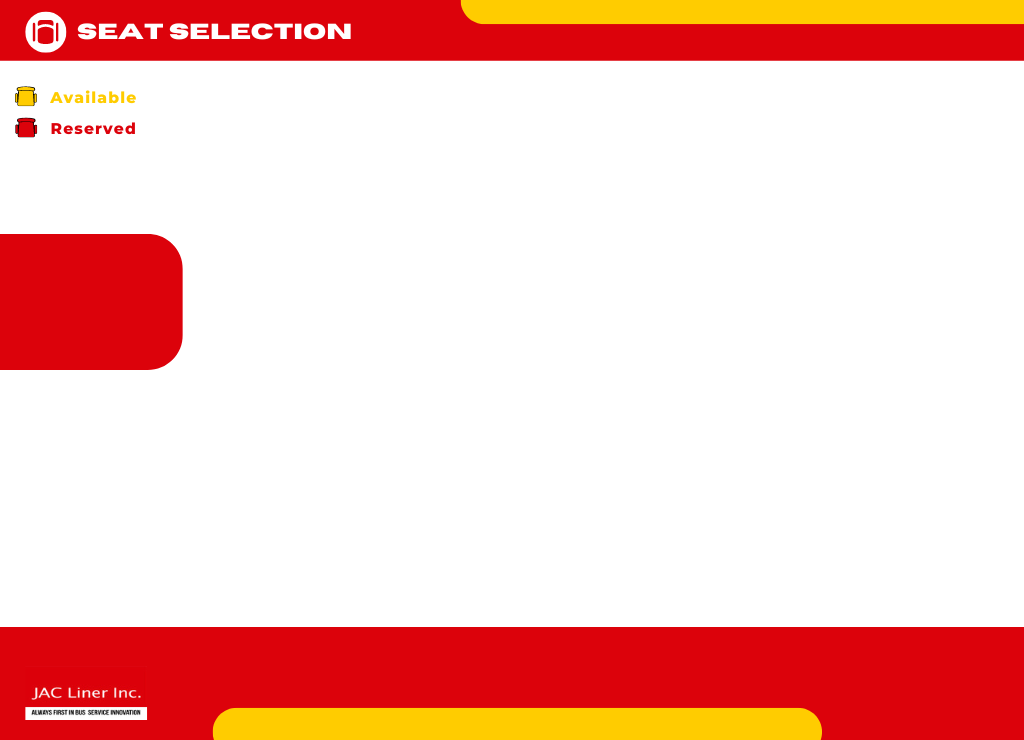
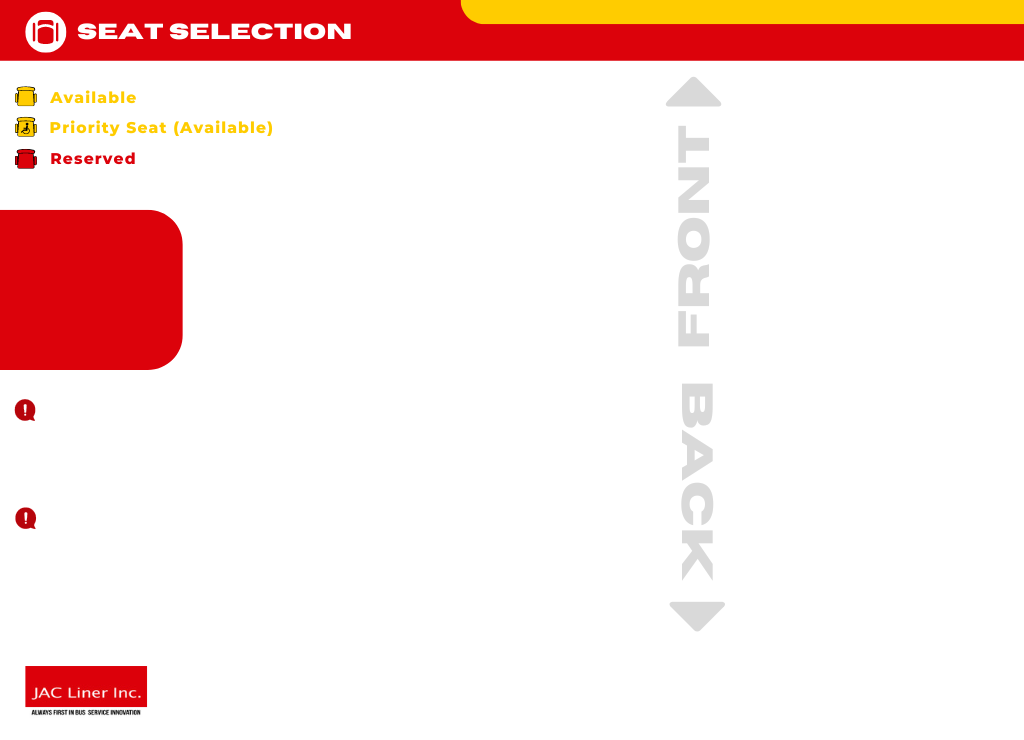
html ticket revised + seat selection redesign

diff --git a/src/main/java/com/shivajivarma/brs/ui/SeatSelectionView.java b/src/main/java/com/shivajivarma/brs/ui/SeatSelectionView.java
@@ -26,7 +26,7 @@ public class SeatSelectionView extends BaseView implements View {
     private List<Boolean> seatTypes = new ArrayList<>();
     private List<JLabel> icons = new ArrayList<JLabel>();
     private BufferedImage backgroundImage;
-
+    private int x = 0, y = 40;
     private static ImageIcon disabledSeat = ViewComponentFactory.createImageIcon(ResourcePaths.REDSEAT),
             availableSeat = ViewComponentFactory.createImageIcon(ResourcePaths.GREENSEAT),
             pwdSeat = ViewComponentFactory.createImageIcon(ResourcePaths.PWDSEAT); // Add pwdSeat icon
@@ -46,6 +46,7 @@ public class SeatSelectionView extends BaseView implements View {
         }
 
         this.initializeComponents();
+        this.initializeLabels();
     }
 
     @Override
@@ -57,10 +58,14 @@ public class SeatSelectionView extends BaseView implements View {
             g.drawImage(backgroundImage, 0, 0, getWidth(), getHeight(), this);
         }
     }
-
+    
+    private void initializeLabels() {
+        this.add(ViewComponentFactory.createJLabelNormal(Labels.REMINDER5, new int[]{x + 42, y + 335, 240, 30}, new Color (182, 4, 11)));
+        this.add(ViewComponentFactory.createJLabelNormal(Labels.REMINDER6, new int[]{x + 42, y + 437, 240, 30}, new Color (182, 4, 11)));
+    }
     private void initializeComponents() {
         Color jaclinery = new Color(248, 188, 8);
-        bookButton = new RoundButton(Labels.BOOK, new int[]{43, 248, 100, 30}, Color.white, jaclinery);
+        bookButton = new RoundButton(Labels.BOOK, new int[]{43, 258, 100, 30}, Color.white, jaclinery);
         backButton = new RoundButton(Labels.BACK, new int[]{43, 298, 100, 30}, Color.white, jaclinery);
 
         bookButton.setFocusPainted(false);
@@ -75,8 +80,11 @@ public class SeatSelectionView extends BaseView implements View {
         addHoverEffect(backButton, jaclinery, Color.white, Color.white, jaclinery);
 
         // Initialize discount checkbox
-        discountCheckbox = new JCheckBox("Discount");
-        discountCheckbox.setBounds(700, 20, 100, 20); // Adjust position as needed
+        discountCheckbox = new JCheckBox("Discounted");
+        discountCheckbox.setFont(ViewComponentFactory.FONT_BUTTON);
+        discountCheckbox.setBounds(12, 220, 130, 20); // Adjust position as needed
+        discountCheckbox.setBackground(new Color(220, 2 , 11));
+        discountCheckbox.setForeground(Color.white);
         this.add(discountCheckbox);
 
         discountCheckbox.addActionListener(e -> {

diff --git a/src/main/java/com/shivajivarma/brs/model/service/ReserveService.java b/src/main/java/com/shivajivarma/brs/model/service/ReserveService.java
@@ -254,13 +254,13 @@ public class ReserveService implements Service{
 		"<body>\n" +
 		"<main class=\"ticket-system\">\n" +
 		"   <div class=\"top\">\n" +
-		"   <h1 class=\"title\"><i>Wait a second, your ticket is being printed...</i></h1>\n" +
+		"   <h1 class=\"title\"><i>Wait a second, the bus ticket is being printed...</i></h1>\n" +
 		"   <div class=\"printer\">\n" +
 		"   </div>\n" +
 		"   <div class=\"receipts-wrapper\">\n" +
 		"      <div class=\"receipts\">\n" +
 		"         <div class=\"receipt\">\n" +
-		"            <img class=\"airliner-logo\" src=\"https://jacliner.com/images/logo-jacliner.jpg\" alt=\"Airliner Logo\">\n" +
+		"            <img class=\"airliner-logo\" src=\"C:/xampp/htdocs/bus-reservation-system-oop/src/main/resources/images/logojacliner.jpg\" alt=\"Airliner Logo\">\n" +
 		"            <div class=\"details\">\n" +
 		"               <div class=\"item one\">\n" +
 		"                  <span>Date</span>\n" +
@@ -307,6 +307,7 @@ public class ReserveService implements Service{
 		"         <div class=\"receipt qr-code\">\n" +
 		"            <div class=\"description\">\n" +
 		"               <h2><b>Successfully Reserved!<b></h2>\n" +
+		"               <p><i>Present it to the bus conductor on the date of your departure.</i></p>\n" +
 		"            </div>\n" +
 		"         </div>\n" +
 		"      </div>\n" +

diff --git a/src/main/java/com/shivajivarma/brs/utility/constants/Labels.java b/src/main/java/com/shivajivarma/brs/utility/constants/Labels.java
@@ -22,5 +22,6 @@ public class Labels {
 	public static final String REMINDER = "<html><i><b>Reminder: Fees will apply if a passenger cancels their ticket one day <br> before the departure date. </b></i></html>";
 	public static final String REMINDER2 = "<html><i><b>Please double-check and confirm the destination and departure <br> date selected with the passenger before clicking 'submit'.</b></i></html>";
 	public static final String REMINDER3 = "<html><i><b>To display passenger's ticket details, select the row with the ticket ID you wish to view, then click 'View Ticket'.</b></i></html>";
-
-}
+    public static final String REMINDER5 = "<html><i><b>For students, persons with disabilities, <br> and senior citizen passengers, only check <br> 'discounted' once they present an ID to <br> receive the discount.</b></i></html>";
+	public static final String REMINDER6 = "<html><i><b>Priority seats are allotted to persons <br> with disabilities, senior citizens, and <br> pregnant women.</b></i></html>";
+}    

diff --git a/src/main/java/com/shivajivarma/brs/ui/HomeTabsPanelView.java b/src/main/java/com/shivajivarma/brs/ui/HomeTabsPanelView.java
@@ -81,9 +81,10 @@ public class HomeTabsPanelView extends BaseView implements View {
     private void initializeLabels() {
         Color jaclinerr = new Color(182, 4, 11);
         welcome = ViewComponentFactory.createJLabelNormal("Hey there, Welcome!", new int[]{47, 6, 400, 30}, jaclinerr);
-        date = ViewComponentFactory.createJLabelNormal("This is where the date and time will show up", new int[]{670, 50, 300, 30}, jaclinerr);
+        date = ViewComponentFactory.createJLabelNormal(" ", new int[]{670, 50, 300, 30}, jaclinerr);
         welcome.setFont(ViewComponentFactory.FONT_HOME);
         welcome.setBounds(47, 3, 400, 30);
+        date.setBounds(672, 47, 300, 30);
         this.add(welcome);
         this.add(date);
     }
